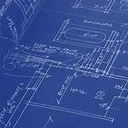
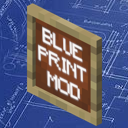
tweaks

diff --git a/src/main/java/vernando/blueprints/MainConfigScreen.java b/src/main/java/vernando/blueprints/MainConfigScreen.java
@@ -3,12 +3,22 @@ package vernando.blueprints;
 import net.minecraft.client.gui.DrawContext;
 import net.minecraft.client.gui.screen.Screen;
 import net.minecraft.client.gui.widget.ButtonWidget;
+import net.minecraft.client.render.BufferBuilder;
+import net.minecraft.client.render.GameRenderer;
+import net.minecraft.client.render.Tessellator;
+import net.minecraft.client.render.VertexFormat;
+import net.minecraft.client.render.VertexFormats;
 import net.minecraft.text.OrderedText;
 import net.minecraft.text.StringVisitable;
 import net.minecraft.text.Text;
+import net.minecraft.util.Identifier;
 
 import java.util.ArrayList;
 import java.util.List;
+
+import org.joml.Matrix4f;
+
+import com.mojang.blaze3d.systems.RenderSystem;
 
 import net.fabricmc.api.EnvType;
 import net.fabricmc.api.Environment;
@@ -35,7 +45,7 @@ public class MainConfigScreen extends Screen {
           // refresh entire screen
           client.setScreen(new MainConfigScreen(blueprints, main));
         })
-            .dimensions(20, 10, 60, 20)
+            .dimensions(10, 10, 60, 20)
             .build());
 
     // renderThroughBlocks
@@ -45,7 +55,7 @@ public class MainConfigScreen extends Screen {
           b.setMessage(main.getRenderThroughBlocks() ? Text.literal("Mode: Render all") : Text.literal("Mode: Render visible"));
           client.setScreen(new MainConfigScreen(blueprints, main));
         })
-            .dimensions(90, 10, 140, 20)
+            .dimensions(80, 10, 140, 20)
             .build());
 
     // blueprint list
@@ -53,7 +63,7 @@ public class MainConfigScreen extends Screen {
       addDrawableChild(ButtonWidget.builder(Text.literal("Configure"), b -> {
         client.setScreen(new BlueprintConfigScreen(blueprint, this));
       })
-          .dimensions(width - 80, 40 + blueprints.indexOf(blueprint) * 24, 60, 20)
+          .dimensions(width - 75, 50 + blueprints.indexOf(blueprint) * 24, 60, 20)
           .build());
     });
   }
@@ -62,11 +72,34 @@ public class MainConfigScreen extends Screen {
   public void render(DrawContext context, int mouseX, int mouseY, float delta) {
     super.render(context, mouseX, mouseY, delta);
 
+    context.drawTextWithShadow(textRenderer, "Path: " + Util.GetPerWorldDimensionConfigPath(), 10, 35, 0xffffff);
+
     blueprints.forEach((blueprint) -> {
-      int y = 40 + blueprints.indexOf(blueprint) * 24;
+      int y = 50 + blueprints.indexOf(blueprint) * 24;
       List<OrderedText> lines = textRenderer.wrapLines(StringVisitable.plain(blueprint.getName()), width - 80 - 40);
       context.drawTextWithShadow(textRenderer, lines.get(0), 40, y + 5, 0xffffff);
       blueprint.renderThumbnail(context, 10, y - 3, 28, 22);          
     });
+
+		renderThumbnail(context, width-45, 10, 30, 30);    
   }
+
+	private void renderThumbnail(DrawContext drawContext, int x, int y, int width, int height) {
+		// Get the transformation matrix from the matrix stack, alongside the tessellator instance and a new buffer builder.
+		Matrix4f transformationMatrix = drawContext.getMatrices().peek().getPositionMatrix();
+		Tessellator tessellator = Tessellator.getInstance();
+		BufferBuilder buffer = tessellator.getBuffer();
+
+		buffer.begin(VertexFormat.DrawMode.QUADS, VertexFormats.POSITION_COLOR_TEXTURE);
+		buffer.vertex(transformationMatrix, x, y, 0).color(1f, 1f, 1f, 1f).texture(0f, 0f).next();
+		buffer.vertex(transformationMatrix, x, y+height, 0).color(1f, 1f, 1f, 1f).texture(0f, 1f).next();
+		buffer.vertex(transformationMatrix, x+width, y+height, 0).color(1f, 1f, 1f, 1f).texture(1f, 1f).next();
+		buffer.vertex(transformationMatrix, x+width, y, 0).color(1f, 1f, 1f, 1f).texture(1f, 0f).next();
+
+		RenderSystem.setShader(GameRenderer::getPositionColorTexProgram);
+		RenderSystem.setShaderTexture(0, new Identifier(Main.MOD_ID, "icon.png"));
+		RenderSystem.setShaderColor(1f, 1f, 1f, 1f);
+
+		tessellator.draw();		
+	}	  
 }

diff --git a/src/main/java/vernando/blueprints/BlueprintConfigScreen.java b/src/main/java/vernando/blueprints/BlueprintConfigScreen.java
@@ -3,10 +3,20 @@ package vernando.blueprints;
 import net.minecraft.client.gui.DrawContext;
 import net.minecraft.client.gui.screen.Screen;
 import net.minecraft.client.gui.widget.ButtonWidget;
+import net.minecraft.client.render.BufferBuilder;
+import net.minecraft.client.render.GameRenderer;
+import net.minecraft.client.render.Tessellator;
+import net.minecraft.client.render.VertexFormat;
+import net.minecraft.client.render.VertexFormats;
 import net.minecraft.text.Text;
+import net.minecraft.util.Identifier;
 import net.minecraft.util.math.Direction.Axis;
 import vernando.blueprints.Util.Direction;
 import net.minecraft.client.MinecraftClient;
+
+import org.joml.Matrix4f;
+
+import com.mojang.blaze3d.systems.RenderSystem;
 
 import net.fabricmc.api.EnvType;
 import net.fabricmc.api.Environment;
@@ -255,5 +265,8 @@ public class BlueprintConfigScreen extends Screen {
 		context.drawTextWithShadow(textRenderer, Text.literal("Rotation"), startX, startY + 4 * rowHeight + textYOffset, 0xffffff);
 		context.drawTextWithShadow(textRenderer, Text.literal("Scale"), startX, startY + 8 * rowHeight + textYOffset, 0xffffff);
 		context.drawTextWithShadow(textRenderer, Text.literal("Alpha"), startX, startY + 11 * rowHeight + textYOffset, 0xffffff);
+
 	}
+
+
 }

diff --git a/README.md b/README.md
@@ -1,13 +1,12 @@
+##
+
 ## Setting up a mod development environment
 
 * install Java Development Kit (JDK) for Java 17 https://adoptium.net/releases.html
-
 * run the genSources gradle task
-
 * run the vscode gradle task
 
 ## Packaging
 
 * run the build gradle task
-
 * jar is in `build/libs`
